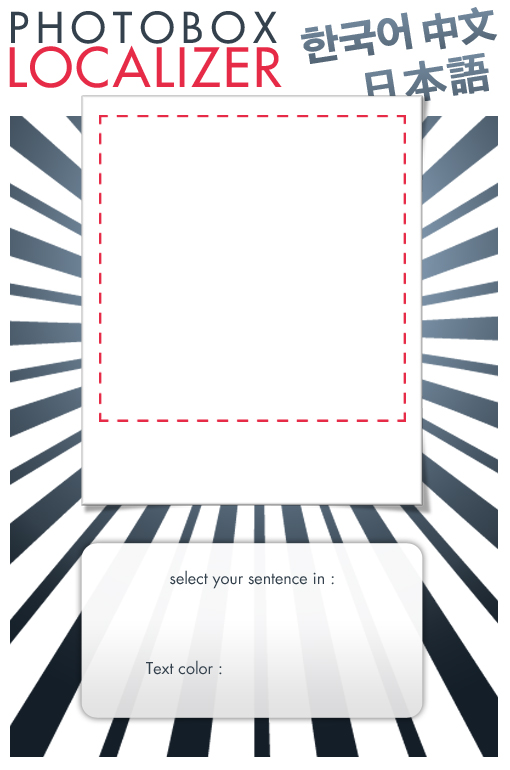
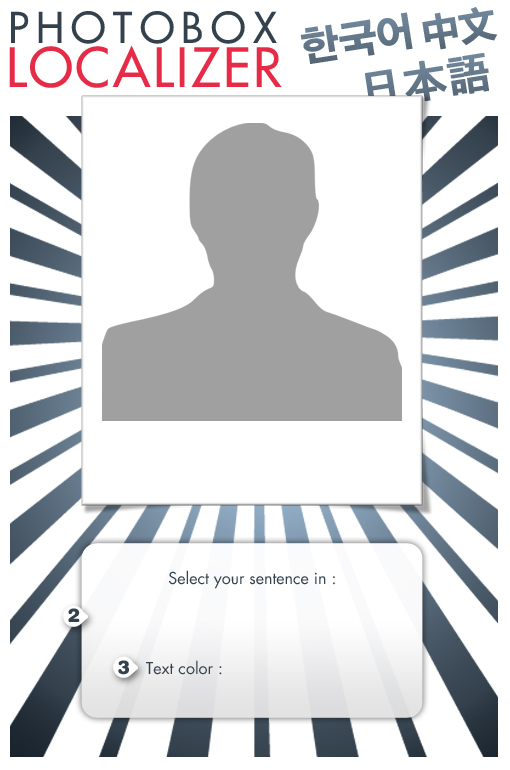
NYAN

diff --git a/public/js/fb-main.js b/public/js/fb-main.js
@@ -91,6 +91,7 @@ $(function () {
 
             FB.api(a.id + '/photos?' + token(), function (data) {
                 Asiance.Studio.loading(false);
+                $fbstuff.find('h2').text('Your photos');
 
                 a.photos = data.data;
 
@@ -112,6 +113,7 @@ $(function () {
                 FB.api('/me/albums?' + token(), function (data) {
                     Asiance.Studio.loading(false);
                     Asiance.albums = data.data;
+                    $('<h2>Your Albums</h2>').prependTo($fbstuff);
 
                     _(Asiance.albums).forEach(function (a) {
                         Album.render(a);
@@ -122,28 +124,49 @@ $(function () {
     }
 
     $('#share').bind('click', function (e) {
-        var path = window.location.protocol + '//' + window.location.host
+        var path = window.location.protocol + '//' + window.location.host;
 
-        FB.login(function (response) {
-            if (response.session && response.perms) {
-                Asiance.fbsession = response.session;
-
+        if (Asiance.fbsession = FB.getSession()) {
                 // adding access_token to data sent to server
-                Asiance.caption.access_token = response.session.access_token
-                Asiance.caption.uid = response.session.uid
+                Asiance.caption.access_token = Asiance.fbsession.access_token
+                Asiance.caption.uid = Asiance.fbsession.uid
 
                 // serializing
                 var data = $.param(Asiance.caption);
+
+                // sharing to wall
+                FB.ui({
+                    method: 'feed',
+                    name: 'Asiance Localizer',
+                    link: 'http://www.facebook.com/Asiance',
+                    picture: 'http://localhost/~belette/asiance/absolut/web/bottle_logo.jpg',
+                    caption: 'Generate pictures and share them with your friends!',
+                    description: '',
+                    message: ''
+                }, function(response) {
+                    if (response && response.post_id) {
+                        // published
+                    } else {
+                        // not published
+                    }
+                });
                 
                 // contacting server
+                // putting into album
                 $.post(path + '/share?' + data, function (data) {
-
+                    // do stuff after saving to album
                 });
-            } else {
+        } else {
+            FB.login(function (response) {
                 //user didn't login or didnt authorize
                 // console.log('not logged in');
-            }
-        }, { perms:'publish_stream,user_photos' });
+                if (response.perms && response.session) {
+                    Asiance.fbsession = response.session;
+                } else {
+                    // not logged in
+                }
+            }, { perms:'publish_stream,user_photos' });
+        }
     });
 
     $fbconnect.bind('click', function (event) {

diff --git a/public/css/main.css b/public/css/main.css
@@ -36,10 +36,10 @@
   cursor: pointer;
   display: block;
   height: 42px;
-  left: 157px;
+  left: 134px;
   position: absolute;
   top: 518px;
-  width: 197px;
+  width: 218px;
   z-index: 100;
 }
 
@@ -89,11 +89,13 @@
 .box .inside {
     background: url('../images/overlay.png') repeat-y;
     margin-bottom: 20px;
+    margin-top: 20px;
 }
 
 .box .top {
     background: url('../images/overlay_top.png') no-repeat;
     height: 27px;
+    margin-bottom: -20px;
     position: relative;
 }
 
@@ -104,6 +106,16 @@
     position: relative;
 }
 
+#outline {
+    border: 2px dashed #FF5555;
+    display: block;
+    height: 301px;
+    left: 100px;
+    position: absolute;
+    top: 118px;
+    width: 301px;    
+}
+
 #photo {
     background-repeat: no-repeat;
   display: block;
@@ -111,7 +123,7 @@
   left: 102px;
   overflow: hidden;
   position: absolute;
-  top: 118px;
+  top: 120px;
   width: 301px;
 }
 
@@ -265,10 +277,10 @@ _ __ ___   ___  ___ ___  __ _  __ _  ___  ___
   background: url('../images/shareit.png') no-repeat;
   cursor: pointer;
   height: 66px;
-  left: 142px;
+  left: 122px;
   position: absolute;
   top: 700px;
-  width: 230px;
+  width: 255px;
 }
 
 #share:hover {

diff --git a/public/css/studio.css b/public/css/studio.css
@@ -9,6 +9,7 @@
 
 #studio {
     display: none;
+    font-family: "lucida grande",tahoma,verdana,arial,sans-serif;
     position: absolute;
     text-align: center;
     top: 77px;
@@ -54,7 +55,7 @@
 }
 
 #choice {
-    height: 360px;
+    height: 290px;
     overflow-y: hidden;
     padding: 10px 30px;
     position: relative;
@@ -65,13 +66,18 @@
 #choice .fb-button {
     left: 127px;
     position: absolute; 
-    top: 130px;
+    top: 75px;
 }
 
 #choice > hr {
     margin-bottom: 28px;
-    margin-top: 186px;
+    margin-top: 126px;
     position: relative;
+}
+
+#choice .instruction {
+    font-size: 18px;
+
 }
 
 #imgform {
@@ -100,7 +106,6 @@
     /* TODO display for ie7 */
     display: inline-block;
     float: left;
-    font-family: "lucida grande",tahoma,verdana,arial,sans-serif;
     height: 170px;
     list-style: none;
     margin-right: 1px;

diff --git a/public/js/localizer.js b/public/js/localizer.js
@@ -156,6 +156,7 @@ $(function () {
             .attr('src', url)
             .load(function () {
                 $photo.css('background-image', 'url(' + url + ')');
+                $('#outline').css('border', 'none');
                 $ploader.hide();
             });
         },

diff --git a/app.rb b/app.rb
@@ -21,15 +21,7 @@ Translation.auto_migrate! unless Translation.storage_exists?
 
 include Magick
 
-Fontz = {
-  'ko' => { :family => 'Malgun Gothic', :size => '35' },
-  # 'ko' => { :family => 'SD_Puzzle Bk' },
-  'cn' => { :family => 'Kai', :size => '60' },
-  'jp' => { :family => 'YAKITORI', :size => '40' },
-  'en' => { :family => 'Malgun Gothic', :size => '40' },
-  'fr' => { :family => 'Malgun Gothic', :size => '40' },
-}
-
+# image size
 Size = 301
 
 class Localizer < Sinatra::Application
@@ -61,7 +53,7 @@ class Localizer < Sinatra::Application
       return status 400
     end
 
-    if params[:lang].empty? or params[:lang] == 'jp' then params['lang'] = 'ko' end
+    if params[:lang].empty? then params['lang'] = 'ko' end
     if params[:caption].empty? then params[:caption] = '2' end
     if params[:c1].empty? then params[:c1] = '#ffffff' end
     if params[:c2].empty? then params[:c2] = '#000000' end
@@ -70,7 +62,10 @@ class Localizer < Sinatra::Application
       caption = Translation.first(
         :message => { :id => params[:caption] },
         :lang => params[:lang]
-      ).body 
+      )
+
+      # TODO remove?
+      caption.body
     rescue
       return status 400
     end
@@ -205,35 +200,24 @@ class Localizer < Sinatra::Application
     message = Image.read(session[:message_path])[0]
 
     # polaroid effect
-    # have to change x and y to adapt to new border
-    border = 13
-    bottom = 70
-    x = params[:x].to_i + border
-    y = params[:y].to_i + border
+    degrees = -3
+    margin_x = 84
+    margin_y = 80
 
-    # white border
-    whitebg = Image.new(Size + border*2, Size + border + bottom) {
-      self.background_color = '#f0f0ff'
+    # need to adapt to polaroid layout
+    x = params[:x].to_i
+    y = params[:y].to_i
+
+    # bigger canvas to be able to put caption under the picture (pola-style)
+    canvas = Image.new(Size, Size + 70) {
+      self.background_color = 'none'
     }
 
-    image = whitebg.composite(image, border, border, OverCompositeOp)
-
-    # curling
-    amplitude = image.columns * 0.01
-    wavelength = image.rows  * 2
-
-    image.rotate!(90)
-    image = image.wave(amplitude, wavelength)
-    image.rotate!(-90)
-
-    # shadow
-    shadow = image.flop
-    shadow = shadow.colorize(1, 1, 1, "gray75")
-    shadow.background_color = "black"
-    shadow.border!(10, 10, "white")
-    shadow = shadow.blur_image(0, 3)
-
-    image = shadow.composite(image, -amplitude/2, 5, Magick::OverCompositeOp)
+    image = canvas.composite(image,
+                             NorthWestGravity,
+                             0,
+                             0,
+                             OverCompositeOp)
 
     # composing
     image.composite!(message,
@@ -241,6 +225,14 @@ class Localizer < Sinatra::Application
                      x,
                      y,
                      OverCompositeOp)
+
+    pola = Image.read(File.expand_path('..', __FILE__) + "/public/images/pola.jpg")[0]
+    image = pola.composite(image.rotate(degrees), 
+                           NorthWestGravity,
+                           margin_x,
+                           margin_y,
+                           OverCompositeOp)
+
 
     image.write(path)
 
@@ -263,8 +255,8 @@ class Localizer < Sinatra::Application
     draw = Magick::Draw.new
 
     draw.encoding('utf8')
-    draw.font_family(Fontz[lang][:family])
-    draw.pointsize(Fontz[lang][:size])
+    draw.font_family(caption.family)
+    draw.pointsize(caption.size)
     draw.font_weight(900)
     draw.text_antialias(true)
     draw.font_stretch(3)
@@ -278,7 +270,7 @@ class Localizer < Sinatra::Application
     draw.stroke(c2)
 
     draw.gravity(NorthWestGravity)
-    draw.text(x, y, caption)
+    draw.text(x, y, caption.body)
 
     draw
   end

diff --git a/models/translation.rb b/models/translation.rb
@@ -6,6 +6,8 @@ class Translation
     property :body, String
     property :created_at, DateTime
     property :lang, String, :key => true
+    property :size, Integer
+    property :family, String
 
     belongs_to :message, 'Message', :key => true
 end
